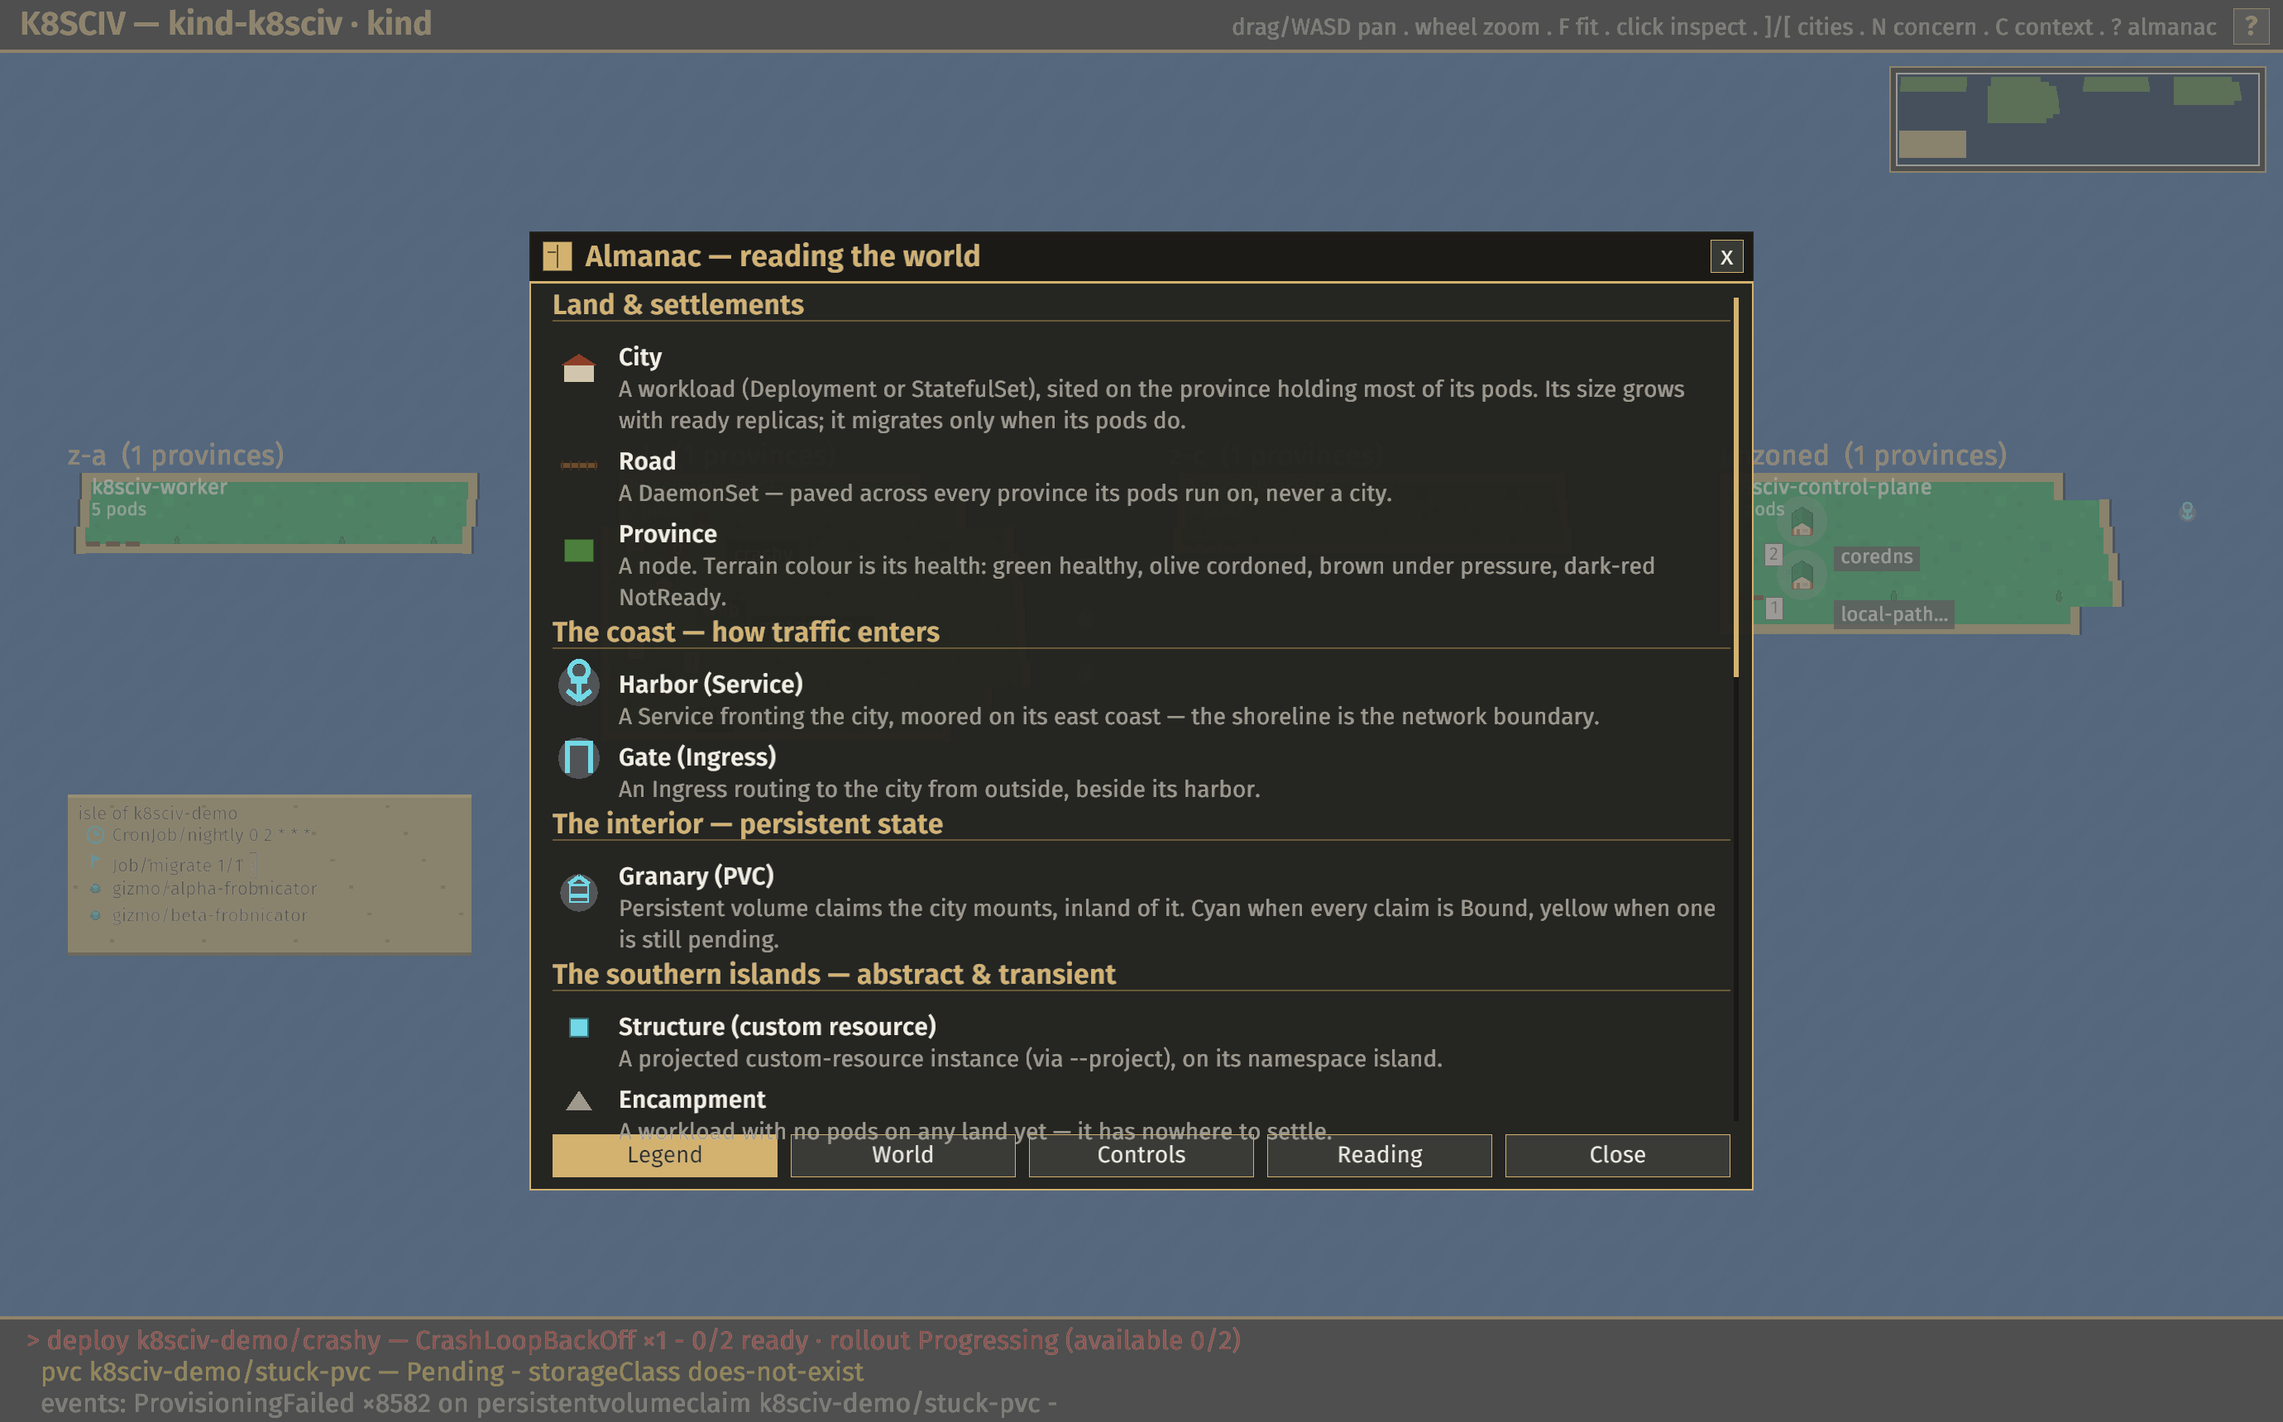
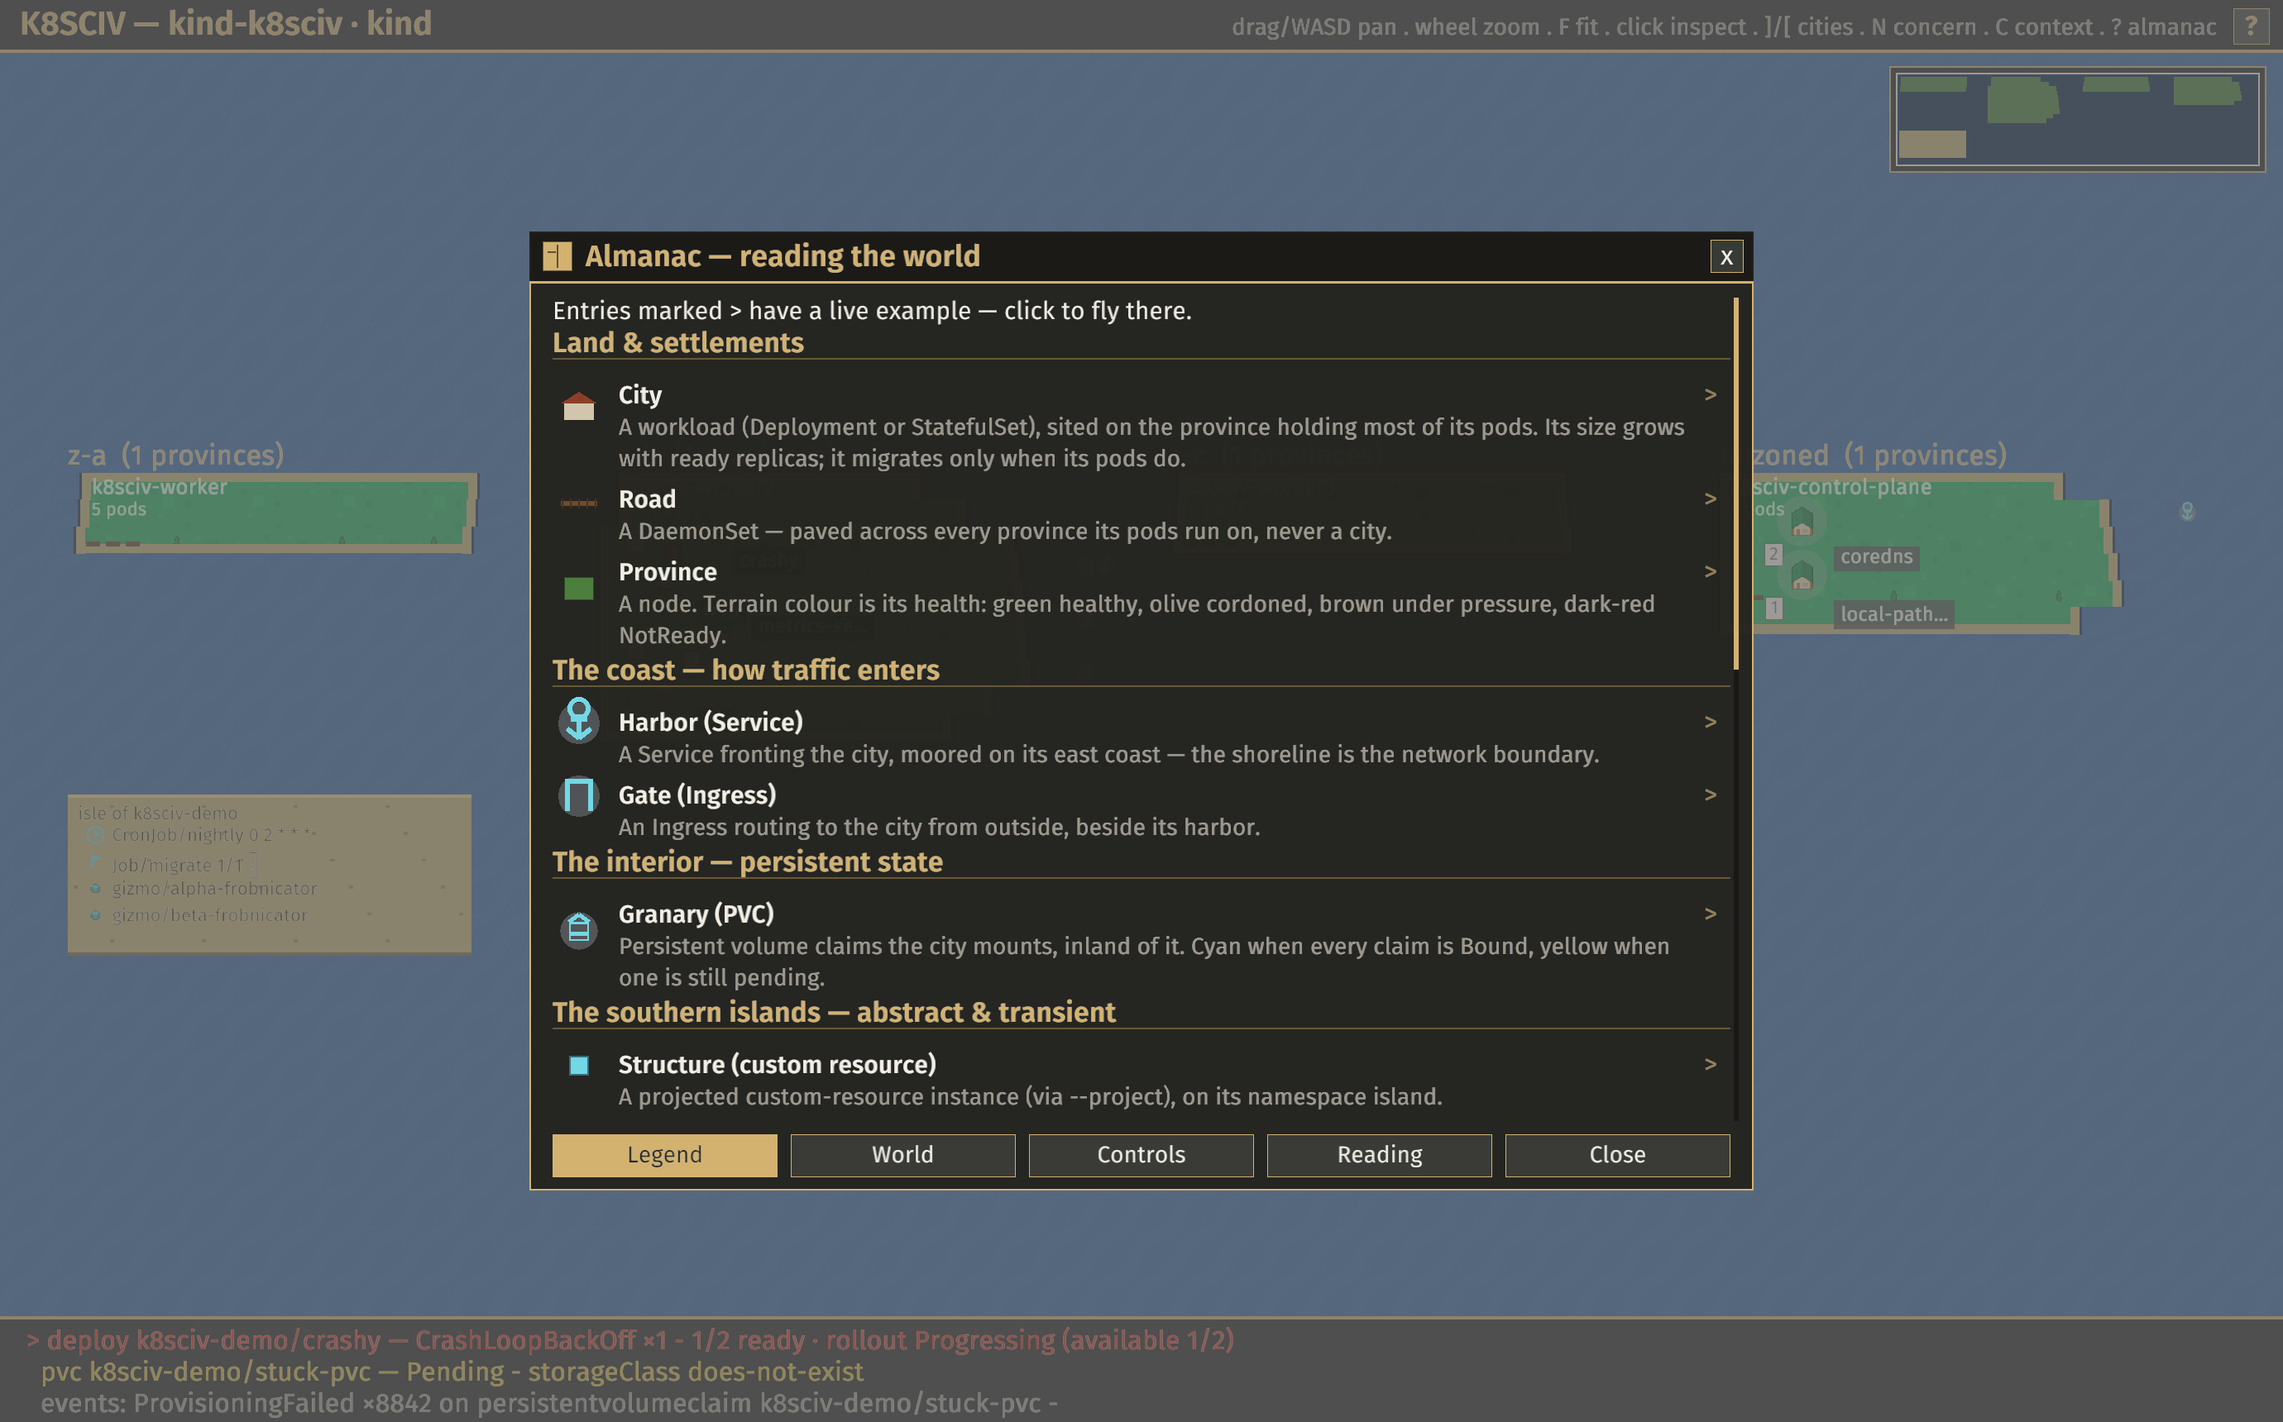
feat(gui): polish the Almanac — Civilopedia cross-refs + nav
Make the Almanac a real Civilopedia: its Legend entries cross-reference the
live map.

- Each Legend mark with a live counterpart (resolved from the hot world via
  locate(), derived from the Mark itself — no call-site churn) lights up with
  a `>` chevron and a hover highlight. Clicking it returns
  AlmanacAction::Locate(cell); the main loop flies the camera there, selects
  it, and closes the Almanac. Entries with no live example (or pods /
  attention / gauges, which aren't single cells) stay plain.
- Keyboard: 1-4 jump to tabs, ←/→ cycle them (go_idx / cycle).
- window.rs: tab buttons + the close box highlight on hover.
- An intro line on the Legend explains the `>` affordance.

Verified headless: --almanac shows the intro + chevrons on City / Road /
Province / Harbor / Gate / Granary / Structure (all live in the dev
cluster). clippy clean, 48 tests, smoke ok. docs/gui-almanac.png refreshed;
CLAUDE.md + README updated.

Changed region(s): [[0.2181, 0.1849, 0.7478, 0.8012], [0.3116, 0.9244, 0.5609, 0.9552], [0.2493, 0.986, 0.2804, 1.0]]

diff --git a/crates/k8sciv-gui/src/almanac.rs b/crates/k8sciv-gui/src/almanac.rs
@@ -8,8 +8,10 @@ use macroquad::prelude::*;
 
 use k8sciv_core::state::attention::Severity;
 use k8sciv_core::state::model::{NodeHealth, PodState};
+use k8sciv_core::state::world::{CoastKind, WorldModel};
 
 use crate::draw::{draw_cronjob, draw_gate, draw_granary, draw_harbor, draw_job};
+use crate::net::Snapshot;
 use crate::panels::pod_color;
 use crate::text::{text, text_bold, text_size};
 use crate::theme::*;
@@ -36,6 +38,76 @@ pub enum AlmanacAction {
     None,
     Close,
     Page(Page),
+    /// Fly to (and select) a live example on the map, then close.
+    Locate((u16, u16)),
+}
+
+/// A live map feature a legend entry can jump to — the Civilopedia cross-ref.
+#[derive(Clone, Copy)]
+enum Locator {
+    City,
+    Node,
+    Road,
+    Harbor,
+    Gate,
+    Granary,
+    Custom,
+    Encampment,
+    Job,
+    CronJob,
+}
+
+/// Which live feature (if any) a legend mark points at.
+fn mark_locator(m: Mark) -> Option<Locator> {
+    Some(match m {
+        Mark::City => Locator::City,
+        Mark::Road => Locator::Road,
+        Mark::Terrain(_) => Locator::Node,
+        Mark::Harbor => Locator::Harbor,
+        Mark::Gate => Locator::Gate,
+        Mark::Granary => Locator::Granary,
+        Mark::Custom => Locator::Custom,
+        Mark::Camp => Locator::Encampment,
+        Mark::Job => Locator::Job,
+        Mark::CronJob => Locator::CronJob,
+        Mark::Pod(_) | Mark::Sev(_) | Mark::Gauge => return None,
+    })
+}
+
+/// The hot world's first live instance of `loc`, as a scene cell (hot is at
+/// offset 0, so a hot-world cell is already a scene cell).
+fn locate(w: &WorldModel, loc: Locator) -> Option<(u16, u16)> {
+    let structure = |glyph: char| {
+        w.islands.iter().find_map(|isl| {
+            isl.structures
+                .iter()
+                .find(|s| s.glyph == glyph)
+                .map(|s| (isl.x + 1, s.y))
+        })
+    };
+    let provinces = || w.continents.iter().flat_map(|c| &c.provinces);
+    match loc {
+        Locator::City => w.cities().next().map(|c| (c.x, c.y)),
+        Locator::Granary => w.cities().find(|c| c.storage.is_some()).map(|c| (c.x, c.y)),
+        Locator::Node => provinces().next().map(|p| (p.x + 2, p.y)),
+        Locator::Road => provinces().find(|p| p.infra > 0).map(|p| (p.x + 2, p.y)),
+        Locator::Harbor => w
+            .continents
+            .iter()
+            .flat_map(|c| &c.coast)
+            .find(|m| m.kind == CoastKind::Harbor)
+            .map(|m| (m.x, m.y)),
+        Locator::Gate => w
+            .continents
+            .iter()
+            .flat_map(|c| &c.coast)
+            .find(|m| m.kind == CoastKind::Gate)
+            .map(|m| (m.x, m.y)),
+        Locator::Custom => structure('✦'),
+        Locator::Encampment => structure('◌'),
+        Locator::Job => structure('◈'),
+        Locator::CronJob => structure('◷'),
+    }
 }
 
 /// A drawn legend mark — the same shapes the map uses.
@@ -73,13 +145,28 @@ impl Almanac {
         self.scroll = 0.0;
     }
 
+    /// Jump to a page by tab index (keyboard 1-4); out-of-range is ignored.
+    pub fn go_idx(&mut self, i: usize) {
+        if let Some(p) = Page::ALL.get(i) {
+            self.go(*p);
+        }
+    }
+
+    /// Step to the previous/next page (keyboard left/right).
+    pub fn cycle(&mut self, delta: i32) {
+        let n = Page::ALL.len() as i32;
+        let i = (self.page.idx() as i32 + delta).rem_euclid(n);
+        self.go(Page::ALL[i as usize]);
+    }
+
     /// Wheel scroll (positive = up).
     pub fn scroll_by(&mut self, dy: f32) {
         self.scroll = (self.scroll - dy * 36.0).clamp(0.0, self.max_scroll);
     }
 
-    /// Draw the window + current page; resolve clicks into an action.
-    pub fn draw(&mut self, mouse: Vec2, click: bool) -> AlmanacAction {
+    /// Draw the window + current page; resolve clicks into an action. `snap`
+    /// lets the Legend light up entries that have a live example to fly to.
+    pub fn draw(&mut self, snap: Option<&Snapshot>, mouse: Vec2, click: bool) -> AlmanacAction {
         let labels = ["Legend", "World", "Controls", "Reading", "Close"];
         let win = draw_window(
             "Almanac — reading the world",
@@ -91,6 +178,10 @@ impl Almanac {
         let mut cx = Ctx {
             body: win.body,
             y: win.body.y - self.scroll,
+            world: snap.map(|s| &s.hot.models.world),
+            mouse,
+            click,
+            pending: None,
         };
         match self.page {
             Page::Legend => page_legend(&mut cx),
@@ -98,6 +189,7 @@ impl Almanac {
             Page::Controls => page_controls(&mut cx),
             Page::Reading => page_reading(&mut cx),
         }
+        let pending = cx.pending;
         let content_h = cx.y - (win.body.y - self.scroll);
         self.max_scroll = (content_h - win.body.h).max(0.0);
         self.scroll = self.scroll.min(self.max_scroll);
@@ -113,6 +205,10 @@ impl Almanac {
             draw_rectangle(b.x + b.w + 2.0, ty, 3.0, thumb_h, PARCHMENT);
         }
 
+        // A click on a lit legend entry flies to its live example.
+        if let Some(cell) = pending {
+            return AlmanacAction::Locate(cell);
+        }
         if click {
             if win.close.contains(mouse) {
                 return AlmanacAction::Close;
@@ -134,14 +230,20 @@ impl Almanac {
 
 // --- content rendering -----------------------------------------------------
 
-struct Ctx {
+struct Ctx<'a> {
     body: Rect,
     y: f32,
+    /// The hot world, for resolving live examples (None until first sync).
+    world: Option<&'a WorldModel>,
+    mouse: Vec2,
+    click: bool,
+    /// Set when a lit legend entry is clicked: the cell to fly to.
+    pending: Option<(u16, u16)>,
 }
 
 const LINE: f32 = 19.0;
 
-impl Ctx {
+impl Ctx<'_> {
     fn visible(&self, top: f32, h: f32) -> bool {
         top + h >= self.body.y && top <= self.body.y + self.body.h
     }
@@ -162,19 +264,46 @@ impl Ctx {
         self.y += 18.0;
     }
 
-    /// A legend row: the mark, a bold name, and a wrapped description.
+    /// A legend row: the mark, a bold name, and a wrapped description. If the
+    /// mark points at a live map feature, the row lights up (a `›` chevron +
+    /// hover highlight) and a click flies the camera to an example of it.
     fn entry(&mut self, m: Mark, name: &str, desc: &str) {
         let text_x = self.body.x + 40.0;
-        let wrap_w = self.body.w - 44.0;
+        let wrap_w = self.body.w - 64.0;
         let lines = wrap(desc, wrap_w, 14.0);
         let block_h = LINE * lines.len().max(1) as f32 + 6.0;
         let top = self.y;
+        let target = mark_locator(m).and_then(|l| self.world.and_then(|w| locate(w, l)));
+        let fully = top >= self.body.y && top + block_h <= self.body.y + self.body.h;
+        let row = Rect::new(self.body.x, top, self.body.w, block_h);
+        let hot = target.is_some() && fully && row.contains(self.mouse);
         if self.visible(top, block_h) {
+            if hot {
+                draw_rectangle(
+                    row.x - 6.0,
+                    row.y,
+                    row.w + 10.0,
+                    row.h,
+                    Color::new(1.0, 1.0, 1.0, 0.07),
+                );
+            }
             draw_mark(m, vec2(self.body.x + 16.0, top + block_h / 2.0 - 4.0));
             text_bold(name, text_x, top + 13.0, 15.0, INK);
             for (i, l) in lines.iter().enumerate() {
                 text(l, text_x, top + 13.0 + (i as f32 + 1.0) * LINE, 14.0, DIM);
             }
+            if target.is_some() {
+                // A chevron marks a live, clickable cross-reference.
+                let col = if hot {
+                    PARCHMENT
+                } else {
+                    darker(PARCHMENT, 0.7)
+                };
+                text(">", self.body.x + self.body.w - 16.0, top + 13.0, 16.0, col);
+            }
+        }
+        if hot && self.click {
+            self.pending = target;
         }
         // name line + desc lines.
         self.y += LINE + LINE * lines.len() as f32 + 6.0;
@@ -228,6 +357,7 @@ fn wrap(s: &str, max_w: f32, size: f32) -> Vec<String> {
 }
 
 fn page_legend(cx: &mut Ctx) {
+    cx.para("Entries marked  >  have a live example — click to fly there.");
     cx.heading("Land & settlements");
     cx.entry(
         Mark::City,

diff --git a/crates/k8sciv-gui/src/main.rs b/crates/k8sciv-gui/src/main.rs
@@ -198,11 +198,28 @@ async fn main() {
             }
         }
 
-        // The Almanac swallows the wheel (scroll its content, not zoom).
+        // The Almanac swallows the wheel (scroll its content, not zoom) and
+        // takes 1-4 / ←→ to switch pages.
         if let Some(a) = almanac.as_mut() {
             let (_, wheel) = mouse_wheel();
             if wheel.abs() > 0.0 {
                 a.scroll_by(wheel);
+            }
+            for (k, i) in [
+                (KeyCode::Key1, 0),
+                (KeyCode::Key2, 1),
+                (KeyCode::Key3, 2),
+                (KeyCode::Key4, 3),
+            ] {
+                if is_key_pressed(k) {
+                    a.go_idx(i);
+                }
+            }
+            if is_key_pressed(KeyCode::Left) {
+                a.cycle(-1);
+            }
+            if is_key_pressed(KeyCode::Right) {
+                a.cycle(1);
             }
         }
 
@@ -524,13 +541,21 @@ async fn main() {
         // (but not the click that opened it this frame).
         if almanac.is_some() {
             let click = is_mouse_button_pressed(MouseButton::Left) && !almanac_just_opened;
-            let action = almanac.as_mut().map(|a| a.draw(mouse, click));
+            let action = almanac
+                .as_mut()
+                .map(|a| a.draw(snap.as_deref(), mouse, click));
             match action {
                 Some(AlmanacAction::Close) => almanac = None,
                 Some(AlmanacAction::Page(p)) => {
                     if let Some(a) = almanac.as_mut() {
                         a.go(p);
                     }
+                }
+                // Cross-reference: fly to a live example, then close.
+                Some(AlmanacAction::Locate(cell)) => {
+                    cam.fly_to(cell);
+                    selected = Some(cell);
+                    almanac = None;
                 }
                 _ => {}
             }

diff --git a/crates/k8sciv-gui/src/window.rs b/crates/k8sciv-gui/src/window.rs
@@ -58,6 +58,7 @@ pub fn draw_window(title: &str, size: Vec2, buttons: &[&str], active: usize) -> 
     let x = ((screen_width() - w) / 2.0).floor();
     let y = ((screen_height() - h) / 2.0).floor();
     let frame = Rect::new(x, y, w, h);
+    let mp = Vec2::from(mouse_position());
 
     draw_rectangle(x, y, w, h, PANEL);
     draw_rectangle_lines(x, y, w, h, 2.0, PARCHMENT);
@@ -70,7 +71,12 @@ pub fn draw_window(title: &str, size: Vec2, buttons: &[&str], active: usize) -> 
 
     // Close box (Esc also closes; this mirrors Civ II's window button).
     let close = Rect::new(x + w - 26.0, y + 5.0, 20.0, 20.0);
-    draw_rectangle(close.x, close.y, close.w, close.h, PLATE);
+    let close_bg = if close.contains(mp) {
+        lighter(PLATE, 1.9)
+    } else {
+        PLATE
+    };
+    draw_rectangle(close.x, close.y, close.w, close.h, close_bg);
     draw_rectangle_lines(close.x, close.y, close.w, close.h, 1.0, PARCHMENT);
     text("x", close.x + 6.0, close.y + 15.0, 16.0, INK);
 
@@ -84,7 +90,14 @@ pub fn draw_window(title: &str, size: Vec2, buttons: &[&str], active: usize) -> 
             let bx = x + PAD + i as f32 * (bw + 8.0);
             let r = Rect::new(bx, row_y, bw, BTN_H);
             let on = i == active;
-            draw_rectangle(r.x, r.y, r.w, r.h, if on { PARCHMENT } else { PLATE });
+            let bg = if on {
+                PARCHMENT
+            } else if r.contains(mp) {
+                lighter(PLATE, 1.7)
+            } else {
+                PLATE
+            };
+            draw_rectangle(r.x, r.y, r.w, r.h, bg);
             draw_rectangle_lines(r.x, r.y, r.w, r.h, 1.0, PARCHMENT);
             let tc = if on { PANEL } else { INK };
             let tm = text_size(ascii(label), 14.0);

diff --git a/CLAUDE.md b/CLAUDE.md
@@ -178,7 +178,13 @@ what makes the interesting logic unit-testable without a cluster.
   marks** (reuses `draw_harbor/gate/granary/job/cronjob`, now `pub(crate)`,
   + `pod_color`) beside each definition, so it can't drift from the map.
   The TUI's `?` help gained a matching compact MAP LEGEND section.
-  docs/gui-almanac.png.
+  docs/gui-almanac.png. **Polish** (2026-06-16): Civilopedia cross-refs —
+  each Legend entry whose mark has a live example (resolved from the hot
+  world via `locate()`, derived from the `Mark`) lights up with a `>` chevron
+  + hover highlight; clicking it returns `AlmanacAction::Locate(cell)` and
+  the main loop flies the camera there, selects it, and closes the Almanac.
+  Keyboard `1`-`4` jump to tabs and `←`/`→` cycle them; `window.rs` buttons +
+  close box highlight on hover.
 - **GUI city drill-down** (2026-06-16, the window system's first rich
   consumer): clicking a city opens a centered **Civ-II-style city window**
   (`city.rs`) instead of the old right-side panel — the Civ II city screen

diff --git a/README.md b/README.md
@@ -132,7 +132,9 @@ their schedule — beside the custom-resource structures:
 Press **`?`** (or `F1`, or the top-bar `?`) for the **Almanac** — an in-app
 reference, drawn on a reusable popup-window system, that documents the map's
 whole visual vocabulary with the *actual marks* beside each definition, plus
-the world metaphor, controls, and how to read state:
+the world metaphor, controls, and how to read state. Legend entries that
+have a live example light up with a `>` — click one to fly the camera
+straight to it (`1`-`4` / `←→` switch pages):
 
 ![GUI Almanac](docs/gui-almanac.png)
 
